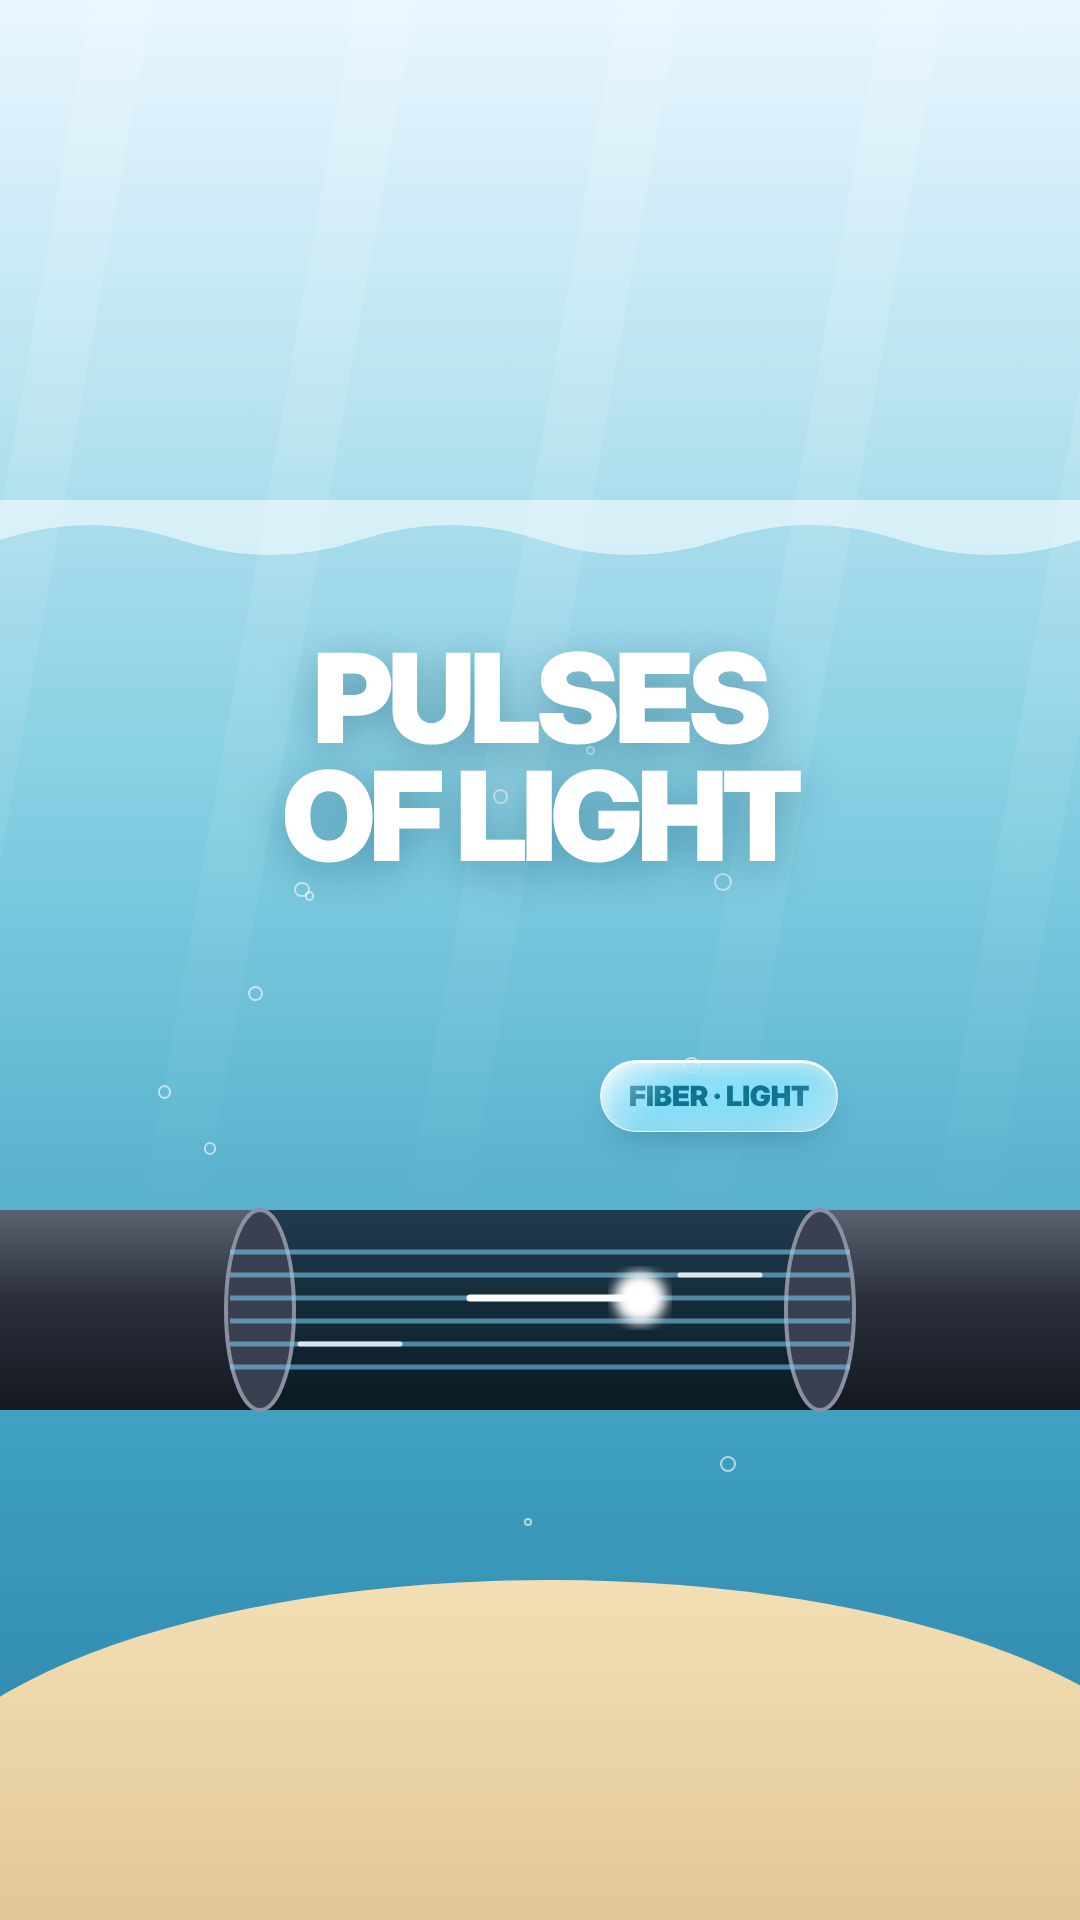
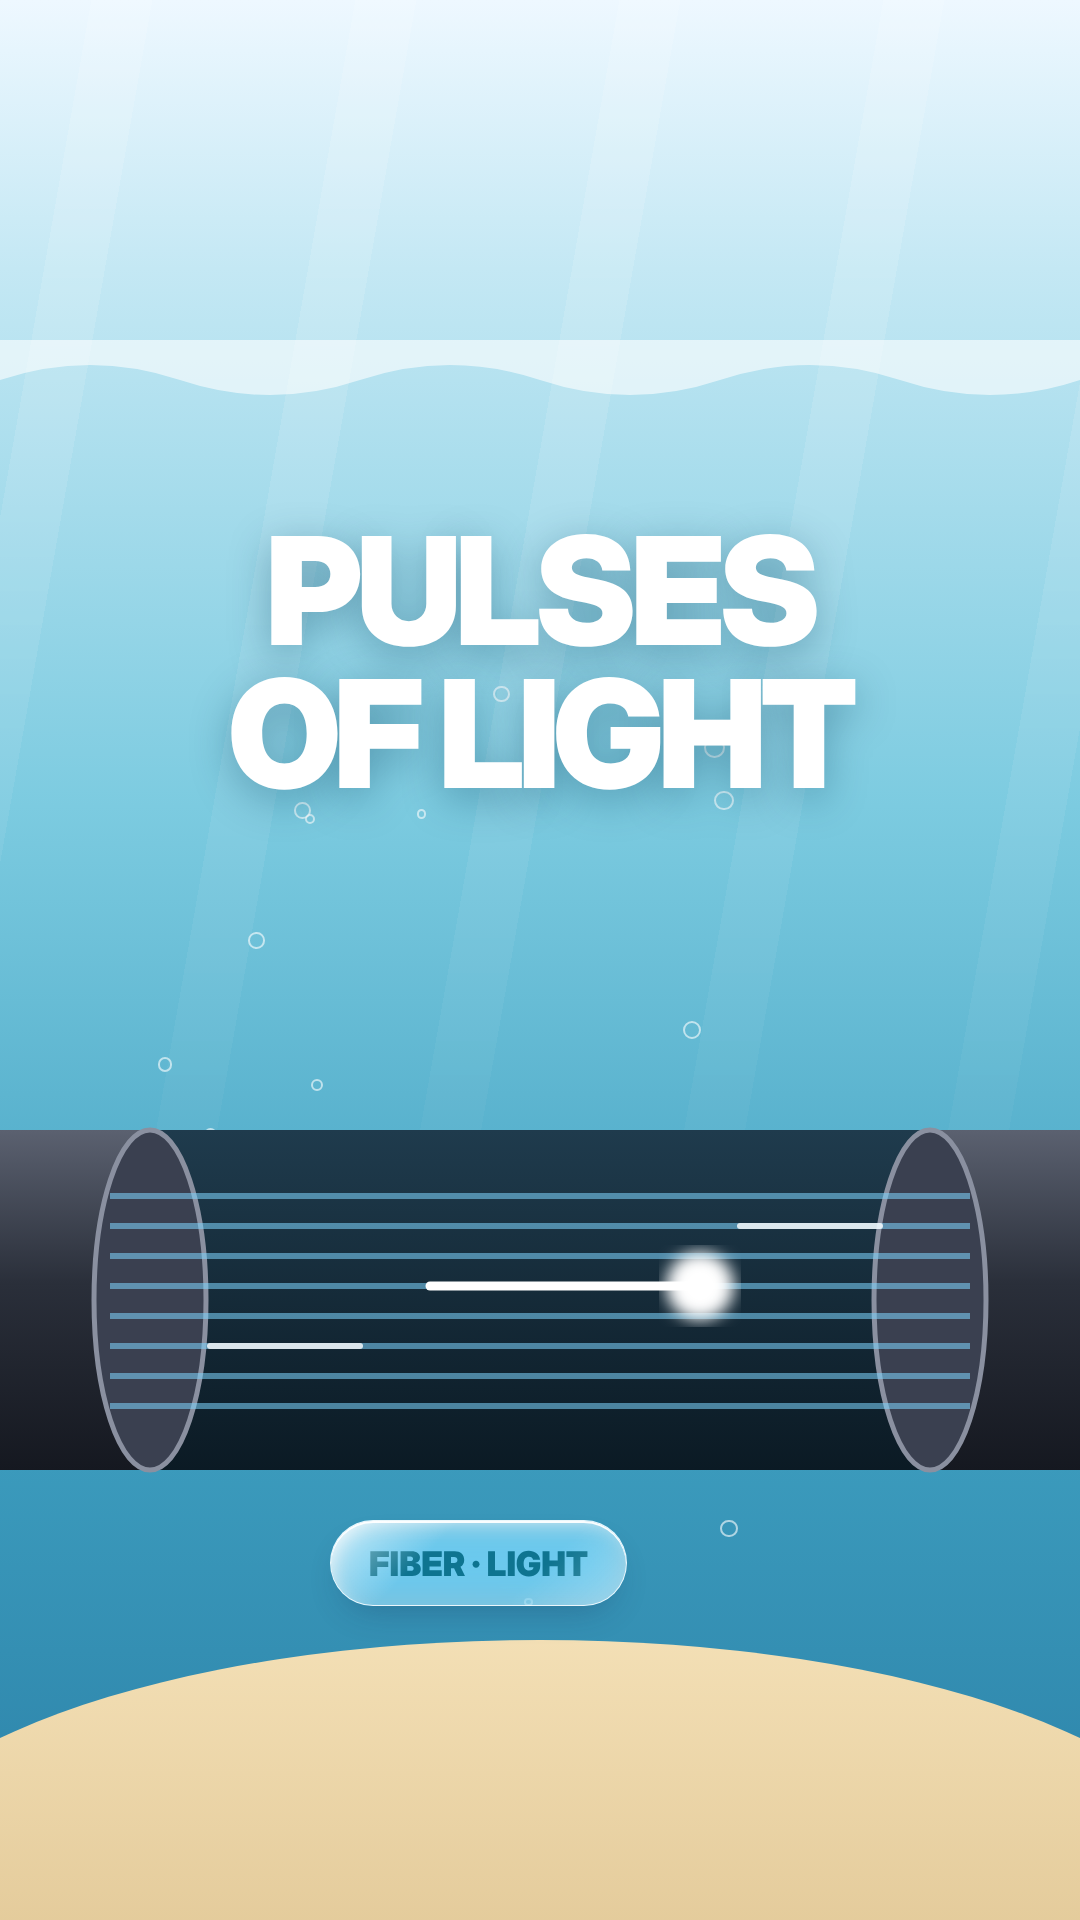
send-photo: mockup v5 — full-frame layouts, phones at different heights
Claude-Session: https://claude.ai/code/session_01QM2gWBww91cH489KLK5YTv

Changed region(s): [[0.0, 0.5312, 1.0, 0.9062], [0.0, 0.25, 1.0, 0.4688], [0.0, 0.1562, 1.0, 0.2188]]

diff --git a/projects/send-photo/src/mockup.html b/projects/send-photo/src/mockup.html
@@ -215,6 +215,103 @@ F['6']=()=>{
   `<div class="sq" style="position:absolute;left:330px;top:1640px;width:96px;height:96px;border-radius:50%;background:linear-gradient(160deg,#ffae4a,#ff6a00);box-shadow:0 0 0 16px rgba(255,122,26,.18),0 14px 28px -8px rgba(255,110,0,.6)">${icon('tap',54,'#fff',2.4)}</div>
    <div class="abs" style="left:446px;top:1666px;font-weight:800;font-size:30px;color:#ff6a00">one tiny action</div>`;};
 
+// ───── v5: full-frame layouts (override earlier frame definitions)
+const node=(x,y,on,r=48)=>`<div class="card sq" style="left:${x-r}px;top:${y-r}px;width:${r*2}px;height:${r*2}px;border-radius:50%;${on?'box-shadow:0 0 0 18px rgba(61,107,255,.16),0 20px 40px -14px rgba(40,40,120,.45)':''}"><div style="width:${r*.62}px;height:${r*.62}px;border-radius:50%;background:${on?'#3d6bff':'#8ea6ff'}"></div></div>`;
+const sentBubble=`<div class="abs" style="right:28px;top:520px;width:300px;height:430px;border-radius:34px 34px 10px 34px;overflow:hidden;box-shadow:0 14px 30px -10px rgba(0,0,0,.3)"><img src="${CAT}" style="width:100%;height:100%;object-fit:cover"></div>`;
+const servers=(x,y,w=340,h=290)=>`<div class="card" style="left:${x}px;top:${y}px;width:${w}px;height:${h}px;border-radius:50px;padding:34px">
+   ${[0,1,2].map(i=>`<div style="height:${(h-110)/3}px;margin-bottom:14px;border-radius:16px;background:rgba(255,255,255,.55);display:flex;align-items:center;gap:12px;padding:0 18px"><i style="width:14px;height:14px;border-radius:50%;background:#16c060"></i><i style="width:14px;height:14px;border-radius:50%;background:#2dd4bf"></i><i style="flex:1;height:9px;border-radius:5px;background:#d6d5e2"></i></div>`).join('')}
+   <div class="sq" style="position:absolute;right:18px;top:-2px;width:0;height:0"></div></div>
+   <div class="sq" style="position:absolute;left:${x+w-70}px;top:${y-30}px;width:100px;height:100px;border-radius:30px;background:linear-gradient(160deg,#ffae4a,#ff6a00);box-shadow:0 14px 28px -8px rgba(255,110,0,.6)">${icon('chat',54,'#fff',2.2)}</div>`;
+
+F['1a']=()=>bg('#f7efe9',['#ffc28c','#ff9fcf','#b8a3ff','#ffe39a'])+
+  phone(chatHeader('Alex','linear-gradient(160deg,#7aa2ff,#4f6bff)')+composer(true),540,930,1.36,'')+finger(0,0,1.45);
+
+F['1b']=()=>bg('#f6eef8',['#ffc9a0','#c9b2ff','#a9c8ff','#ffd2e6'])+
+  `<div class="cap" style="left:0;width:1080px;top:200px;font-size:132px">HOW DOES IT<br>GET <span style="color:#14b8a6">THERE?</span></div>`+
+  `<svg class="abs" style="left:0;top:0" width="1080" height="1920"><path d="M440 1000 C 560 1060, 540 1300, 640 1400" stroke="#2dd4bf" stroke-width="8" fill="none" stroke-linecap="round" stroke-dasharray="2 18"/></svg>`+
+  phone(chatHeader('Alex','linear-gradient(160deg,#7aa2ff,#4f6bff)')+sentBubble+`<div class="abs" style="right:34px;top:962px;font-weight:600;font-size:22px;color:#8b8a97">Sending…</div>`+composer(false),260,960,.68)+
+  phone(chatHeader('Sam','linear-gradient(160deg,#ffae4a,#ff6a00)')+composer(false),820,1440,.68)+
+  `<div class="card" style="left:470px;top:1100px;width:140px;height:196px;border-radius:28px;padding:8px"><img src="${CAT}" style="width:100%;height:100%;object-fit:cover;border-radius:22px"></div>`;
+
+F['2']=()=>bg('#ebf8f6',['#9ff0e2','#b9d4ff','#d6c4ff','#c7f5e9'])+
+  `<div class="cap" style="left:0;width:1080px;top:200px;font-size:150px">DATA<br><span style="color:#0fa3a0">PACKETS</span></div>`+
+  `<svg class="abs" style="left:0;top:0" width="1080" height="1920"><path d="M330 1020 C 520 1000, 640 820, 820 760 S 960 1100, 900 1240 S 640 1560, 760 1780" stroke="#2dd4bf" stroke-width="5" fill="none" opacity=".45" stroke-dasharray="3 18" stroke-linecap="round"/></svg>`+
+  `<div class="card" style="left:70px;top:560px;width:400px;height:480px;border-radius:50px">
+     <div class="abs" style="right:0;top:0;width:100px;height:100px;background:linear-gradient(225deg,rgba(220,220,235,.9) 50%,transparent 50%)"></div>
+     <div class="abs" style="left:40px;top:48px;font-weight:900;font-size:34px">cat.jpg</div>
+     <div class="abs mono" style="left:40px;top:118px;font-size:24px;line-height:1.6;color:#0fa3a0;font-weight:700">01001010 1101<br>11010010 0110<br>00110111 1011<br>10101100 0011<br>01110001 1100<br>11001010 0101</div></div>`+
+  blk(600,680,'02',.8)+blk(860,820,'03',.86)+blk(920,1120,'04',.8)+blk(560,1040,'05',.7)+blk(930,1420,'06',.74)+blk(770,1700,'07',.6,0,.8,2)+
+  `<div class="abs" style="left:640px;top:1230px"><div style="width:190px;height:165px;border-radius:26px;background:linear-gradient(160deg,#f5d3a3,#e1aa6a);box-shadow:0 20px 40px -12px rgba(120,70,20,.45);position:relative">
+     <div style="position:absolute;left:80px;top:0;width:30px;height:100%;background:#d39752;opacity:.6"></div>
+     <div style="position:absolute;left:20px;top:74px;padding:6px 14px;border-radius:10px;background:#fff;font-weight:900;font-size:28px;color:#0fa3a0">08</div></div></div>`+
+  `<div class="blk" style="left:70px;top:1220px;width:500px;height:500px;border-radius:110px"><div class="n" style="left:60px;top:46px;font-size:170px">01</div>
+     <div class="bits mono" style="left:62px;bottom:60px;font-size:36px">1011 0110 1100<br>0100 1101 0011</div></div>`+
+  `<div class="pill" style="left:330px;top:1760px;height:90px;padding:0 38px;font-weight:900;font-size:40px;color:#0d0d12;gap:14px"><span class="mono" style="color:#0fa3a0">01</span> / DATA</div>`;
+
+F['3']=()=>bg('#eef1fb',['#a8c6ff','#9ff0e2','#d2c2ff','#bfe2ff'])+
+  `<div class="cap" style="left:70px;top:210px;font-size:140px;text-align:left;color:#3d6bff">ROUTERS</div>`+
+  `<svg class="abs" style="left:0;top:0" width="1080" height="1920">
+    <path d="M300 1600 C 380 1540, 450 1520, 540 1500" stroke="#2dd4bf" stroke-width="12" fill="none" stroke-linecap="round"/>
+    <path d="M300 1640 C 560 1720, 800 1700, 880 1640" stroke="#b9b8c8" stroke-width="7" fill="none" stroke-dasharray="4 18" stroke-linecap="round"/>
+    <path d="M540 1500 C 380 1420, 230 1340, 240 1230 S 640 1110, 800 1040 S 380 900, 300 820 S 560 700, 700 660" stroke="#2dd4bf" stroke-width="12" fill="none" stroke-linecap="round"/>
+    <path d="M240 1230 L90 1080 M800 1040 L1000 980 M800 1040 L980 1260 M240 1230 L100 1420 M300 820 L110 700" stroke="#c9c7da" stroke-width="5"/></svg>`+
+  [[90,1080],[1000,980],[980,1260],[100,1420],[110,700]].map(p=>node(p[0],p[1],0,26)).join('')+
+  node(240,1230,0,60)+node(800,1040,1,66)+node(300,820,0,60)+
+  phone(chatHeader('Alex','linear-gradient(160deg,#7aa2ff,#4f6bff)')+sentBubble+composer(false),190,1620,.4)+
+  `<div class="card sq" style="left:440px;top:1390px;width:220px;height:220px;border-radius:58px;flex-direction:column;gap:8px;box-shadow:0 0 0 16px rgba(45,212,191,.2),0 30px 60px -20px rgba(40,32,110,.45)">${icon('wifi',104,'#0fa3a0',2.2)}<div style="font-weight:800;font-size:28px">Wi-Fi</div></div>`+
+  `<div class="card sq" style="left:800px;top:1540px;width:180px;height:180px;border-radius:48px;flex-direction:column;gap:6px;opacity:.55;filter:blur(2.5px)">${icon('tower',84,'#8b8a97',2)}<div style="font-weight:800;font-size:24px;color:#8b8a97">Mobile</div></div>`+
+  servers(660,440)+
+  blk(470,1380,'01',.5)+blk(520,1140,'02',.44)+blk(470,760,'03',.4,0,.85)+
+  `<div class="abs" style="left:870px;top:1110px;font-weight:900;font-size:24px;letter-spacing:.1em;color:#8b8a97">NODE</div>`;
+
+F['4']=()=>`<div class="abs" style="inset:0;background:linear-gradient(180deg,#eef8ff 0%,#c4e8f4 14%,#7ccbe0 42%,#3e9fc0 72%,#2a7fa6 100%)"></div>`+
+  `<div class="abs" style="inset:0;background:repeating-linear-gradient(100deg,rgba(255,255,255,0) 0 90px,rgba(255,255,255,.14) 90px 150px,rgba(255,255,255,0) 150px 260px);-webkit-mask-image:linear-gradient(180deg,#000 10%,transparent 75%)"></div>`+
+  `<svg class="abs" style="left:0;top:340px" width="1080" height="80" viewBox="0 0 1080 80"><path d="M0 40 Q 90 10 180 40 T 360 40 T 540 40 T 720 40 T 900 40 T 1080 40 V0 H0Z" fill="rgba(255,255,255,.6)"/></svg>`+
+  `<div class="abs" style="left:-140px;top:1640px;width:1360px;height:500px;border-radius:50% 50% 0 0;background:linear-gradient(180deg,#f3dfb5,#d9bd88)"></div>`+
+  [...Array(22)].map((_,i)=>{const h=k=>{const x=Math.sin((i+k)*91.7)*43758.5;return x-Math.floor(x)};const r=6+h(1)*16;return `<div class="abs" style="left:${h(2)*1080}px;top:${450+h(3)*1250}px;width:${r}px;height:${r}px;border-radius:50%;border:2px solid rgba(255,255,255,.6)"></div>`}).join('')+
+  `<div class="cap" style="left:0;width:1080px;top:520px;font-size:150px;color:#fff;text-shadow:0 10px 40px rgba(0,60,90,.35)">PULSES<br>OF LIGHT</div>`+
+  `<svg class="abs" style="left:0;top:0" width="1080" height="1920">
+     <defs><linearGradient id="sh" x1="0" y1="0" x2="0" y2="1"><stop offset="0" stop-color="#5b6170"/><stop offset=".45" stop-color="#2a2f3a"/><stop offset="1" stop-color="#151820"/></linearGradient>
+       <linearGradient id="in" x1="0" y1="0" x2="0" y2="1"><stop offset="0" stop-color="#1f3b4d"/><stop offset="1" stop-color="#0b1a24"/></linearGradient>
+       <filter id="gl"><feGaussianBlur stdDeviation="8"/></filter></defs>
+     <rect x="-200" y="1130" width="1500" height="340" rx="170" fill="url(#sh)"/>
+     <rect x="150" y="1130" width="780" height="340" fill="url(#in)"/>
+     <ellipse cx="150" cy="1300" rx="56" ry="170" fill="#3a4050" stroke="#8a90a0" stroke-width="5"/>
+     <ellipse cx="930" cy="1300" rx="56" ry="170" fill="#3a4050" stroke="#8a90a0" stroke-width="5"/>
+     ${[0,1,2,3,4,5,6,7].map(i=>`<line x1="110" y1="${1196+i*30}" x2="970" y2="${1196+i*30}" stroke="#7fd6ff" stroke-width="6" opacity=".55"/>`).join('')}
+     <line x1="380" y1="1286" x2="700" y2="1286" stroke="#e8fbff" stroke-width="20" stroke-linecap="round" filter="url(#gl)"/>
+     <line x1="430" y1="1286" x2="700" y2="1286" stroke="#fff" stroke-width="9" stroke-linecap="round"/>
+     <circle cx="700" cy="1286" r="34" fill="#fff" filter="url(#gl)"/>
+     <line x1="210" y1="1346" x2="360" y2="1346" stroke="#fff" stroke-width="6" stroke-linecap="round" opacity=".8"/>
+     <line x1="740" y1="1226" x2="880" y2="1226" stroke="#fff" stroke-width="6" stroke-linecap="round" opacity=".8"/></svg>`+
+  `<div class="pill" style="left:330px;top:1520px;height:86px;padding:0 38px;font-weight:900;font-size:34px;color:#0e7490">FIBER · LIGHT</div>`;
+
+F['5']=()=>bg('#fdf3ea',['#ffd0a3','#9ff0e2','#ffc2dc','#d4c4ff'])+
+  `<div class="cap" style="left:0;width:1080px;top:200px;font-size:140px">PHOTO<br><span style="color:#16c060">RECEIVED</span></div>`+
+  phone(chatHeader('Sam','linear-gradient(160deg,#ffae4a,#ff6a00)')+
+    `<div class="abs" style="left:28px;top:250px;padding:20px 26px;border-radius:30px 30px 30px 10px;background:#efeef4;font-weight:600;font-size:26px">Look who woke up 😺</div>
+     <div class="abs" style="left:28px;top:360px;width:360px;height:520px;border-radius:36px 36px 36px 10px;overflow:hidden;box-shadow:0 18px 40px -12px rgba(0,0,0,.35)"><img src="${CAT}" style="width:100%;height:100%;object-fit:cover"></div>
+     <div class="abs" style="left:34px;top:896px;font-weight:700;font-size:22px;color:#16c060;display:flex;gap:6px;align-items:center">${icon('check',22,'#16c060',3)} Delivered</div>`+composer(false),540,1250,1.0)+
+  blk(130,620,'06',.62)+blk(960,760,'07',.5,0,.9)+blk(990,1500,'08',.42,0,.7,2);
+
+F['6']=()=>bg('#f3effb',['#c9b2ff','#9ff0e2','#a9c8ff','#ffd2e6'])+
+  `<div class="cap" style="left:70px;top:200px;font-size:124px;text-align:left">ONE TAP.<br>A WHOLE<br><span style="color:#14b8a6">NETWORK.</span></div>`+
+  `<div class="card" style="left:650px;top:1070px;width:430px;height:380px;border-radius:60px 0 0 60px;background:linear-gradient(180deg,rgba(191,230,243,.9),rgba(62,159,192,.9))">
+     <div class="abs" style="left:0;right:0;bottom:0;height:84px;background:#e6cf9c"></div><div class="abs" style="left:34px;right:0;bottom:66px;height:26px;border-radius:13px;background:#232733"></div>
+     <div class="abs" style="left:40px;top:34px;font-weight:900;font-size:26px;letter-spacing:.08em;color:#fff">UNDERSEA CABLE</div></div>`+
+  `<svg class="abs" style="left:0;top:0" width="1080" height="1920">
+     <path d="M210 1660 C 300 1600, 380 1560, 440 1520 S 220 1380, 250 1290 S 520 1240, 560 1180 S 380 1000, 360 940" stroke="#2dd4bf" stroke-width="10" fill="none" stroke-linecap="round"/>
+     <path d="M440 900 C 600 900, 640 1180, 700 1320" stroke="#2dd4bf" stroke-width="10" fill="none" stroke-linecap="round" stroke-dasharray="2 18"/>
+     <path d="M1000 1100 C 1010 980, 980 880, 930 820" stroke="#2dd4bf" stroke-width="10" fill="none" stroke-linecap="round" stroke-dasharray="2 18"/>
+     <path d="M440 1520 S 220 1380, 250 1290 S 520 1240, 560 1180" stroke="#fff" stroke-width="16" fill="none" stroke-linecap="round" opacity=".95"/></svg>`+
+  phone(chatHeader('Alex','linear-gradient(160deg,#7aa2ff,#4f6bff)')+composer(true),200,1640,.36)+
+  `<div class="card sq" style="left:370px;top:1450px;width:140px;height:140px;border-radius:40px">${icon('wifi',70,'#0fa3a0',2.2)}</div>`+
+  node(250,1290,0,40)+node(560,1180,1,44)+
+  servers(230,790,260,220)+
+  phone(chatHeader('Sam','linear-gradient(160deg,#ffae4a,#ff6a00)')+`<div class="abs" style="left:28px;top:300px;width:360px;height:520px;border-radius:36px;overflow:hidden"><img src="${CAT}" style="width:100%;height:100%;object-fit:cover"></div>`+composer(false),880,600,.4)+
+  `<div class="sq" style="position:absolute;left:440px;top:1700px;width:110px;height:110px;border-radius:50%;background:linear-gradient(160deg,#ffae4a,#ff6a00);box-shadow:0 0 0 18px rgba(255,122,26,.18),0 14px 28px -8px rgba(255,110,0,.6)">${icon('tap',60,'#fff',2.4)}</div>
+   <div class="abs" style="left:576px;top:1730px;font-weight:800;font-size:38px;color:#ff6a00">one tiny action</div>`;
+
 const id=FID;if(BGV==='G')document.body.classList.add('lg');if(BGV==='B')document.body.style.color='#fff';root.innerHTML=F[id]();
 function post(){
   document.querySelectorAll('.sub span[data-k]').forEach(sp=>{const r=sp.getBoundingClientRect(),W=r.width+64,H=r.height+30;
